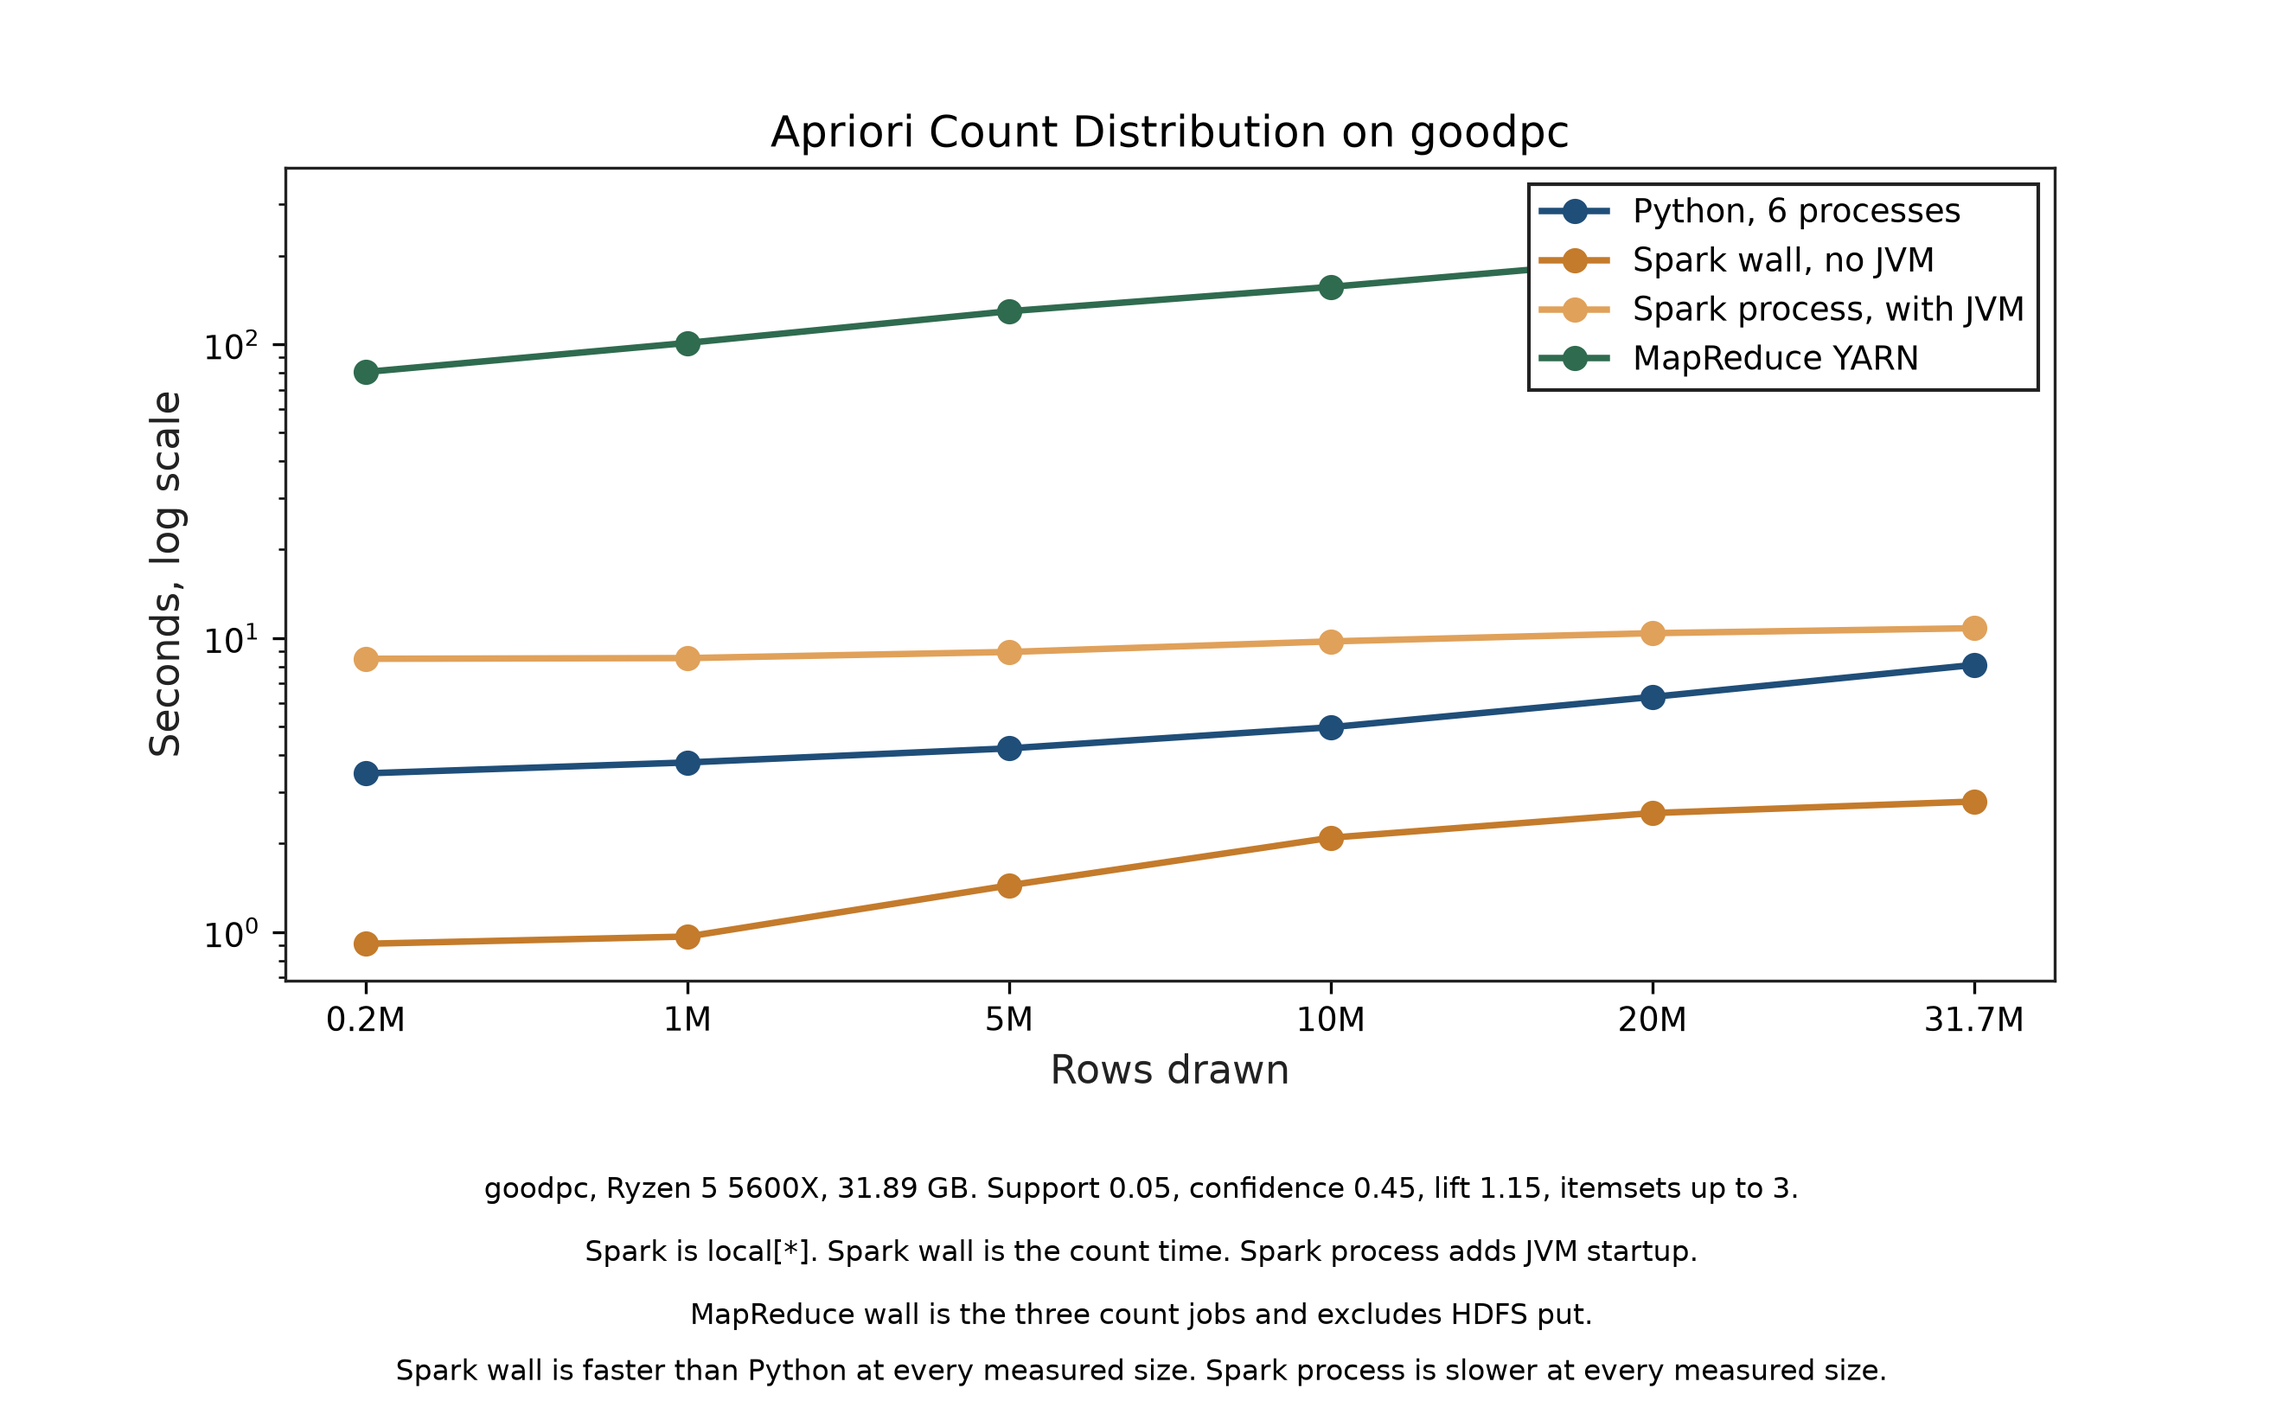
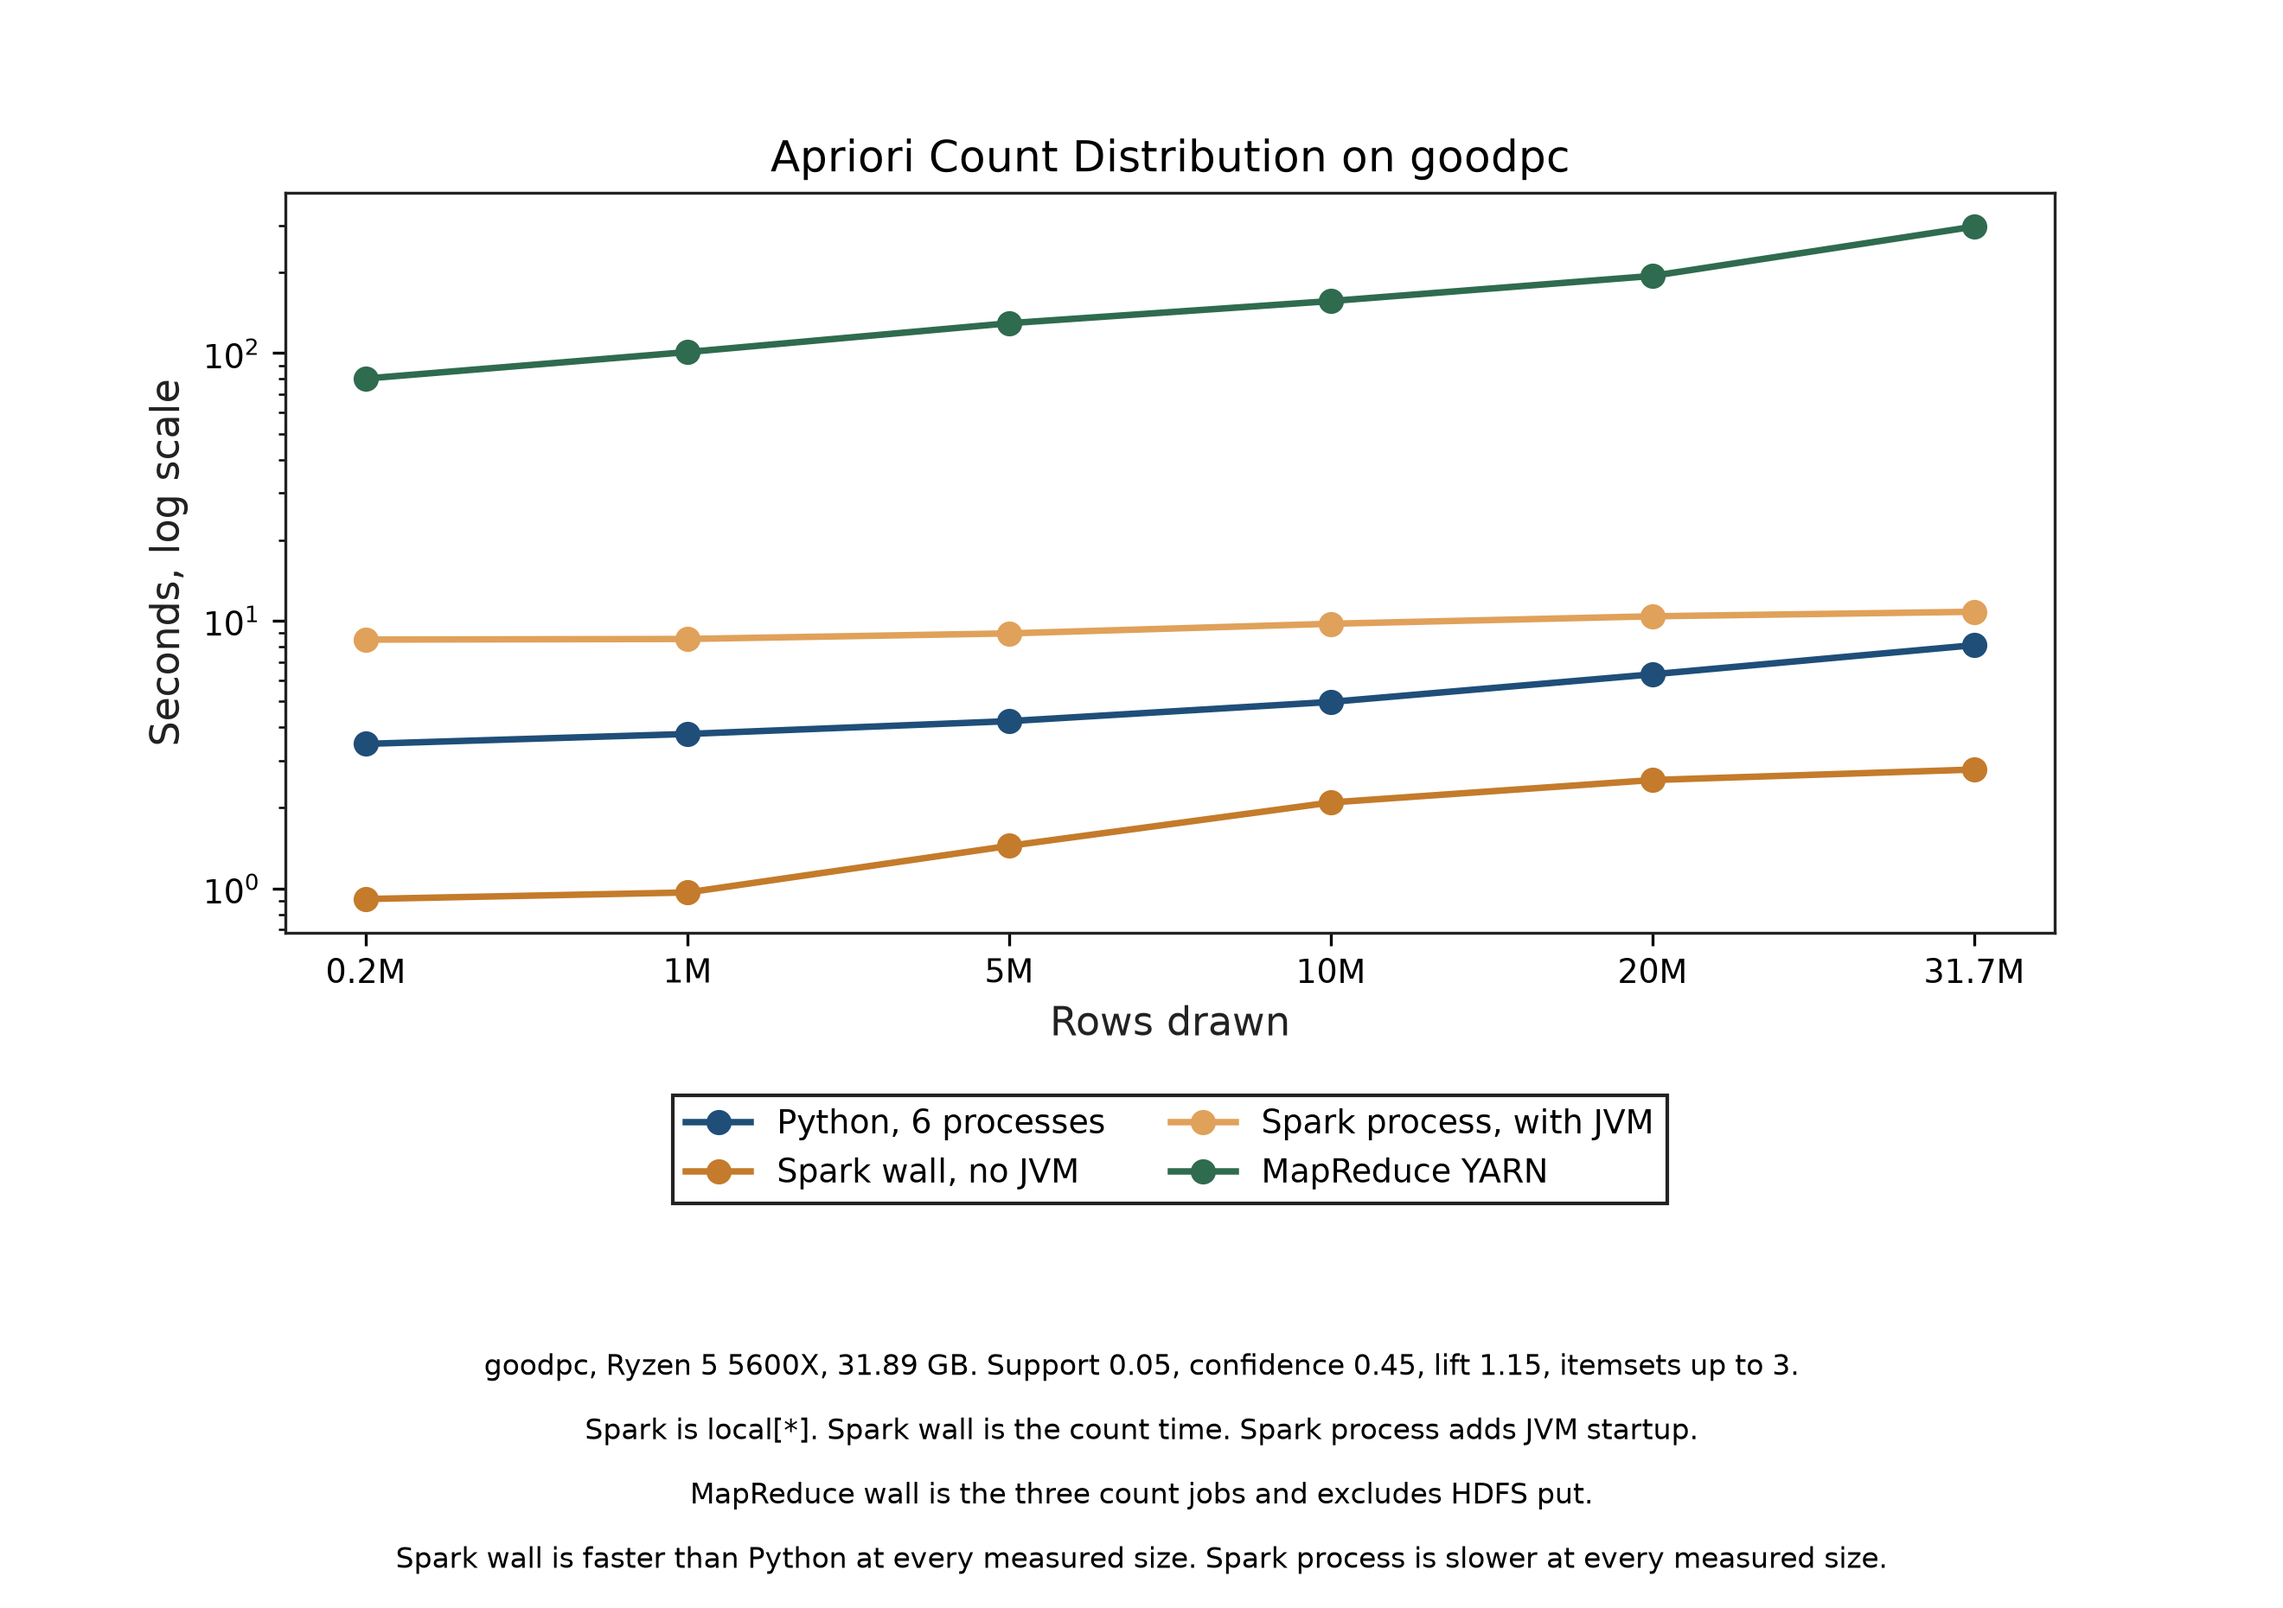
Move the Apriori chart legend below the lines.

diff --git a/local_python/make_figures4papers.py b/local_python/make_figures4papers.py
@@ -1237,7 +1237,7 @@ def fig19_apriori_lines() -> Path:
         ("MapReduce YARN", heights("MapReduce", "wall_seconds"), "#2f6b4f"),
     ]
     setup_paper_style()
-    fig, ax = plt.subplots(figsize=(8.8, 5.4))
+    fig, ax = plt.subplots(figsize=(8.8, 6.2))
     x = np.arange(len(labels))
     for label, values, color in series:
         ax.plot(x, values, marker="o", color=color, label=label)
@@ -1247,8 +1247,15 @@ def fig19_apriori_lines() -> Path:
     ax.set_xlabel("Rows drawn")
     ax.set_ylabel("Seconds, log scale")
     ax.set_title("Apriori Count Distribution on goodpc")
-    paper_legend(ax)
-    fig.subplots_adjust(bottom=0.30)
+    # Legend sits below the axes. Inside the axes it covered the MapReduce points.
+    paper_legend(
+        ax,
+        loc="upper center",
+        bbox_to_anchor=(0.5, -0.22),
+        ncol=2,
+        borderaxespad=0.0,
+    )
+    fig.subplots_adjust(bottom=0.42)
     fig.text(
         0.5,
         0.145,
@@ -1258,21 +1265,21 @@ def fig19_apriori_lines() -> Path:
     )
     fig.text(
         0.5,
-        0.100,
+        0.105,
         "Spark is local[*]. Spark wall is the count time. Spark process adds JVM startup.",
         ha="center",
         fontsize=8,
     )
     fig.text(
         0.5,
-        0.055,
+        0.065,
         "MapReduce wall is the three count jobs and excludes HDFS put.",
         ha="center",
         fontsize=8,
     )
     fig.text(
         0.5,
-        0.015,
+        0.025,
         "Spark wall is faster than Python at every measured size. Spark process is slower at every measured size.",
         ha="center",
         fontsize=8,
